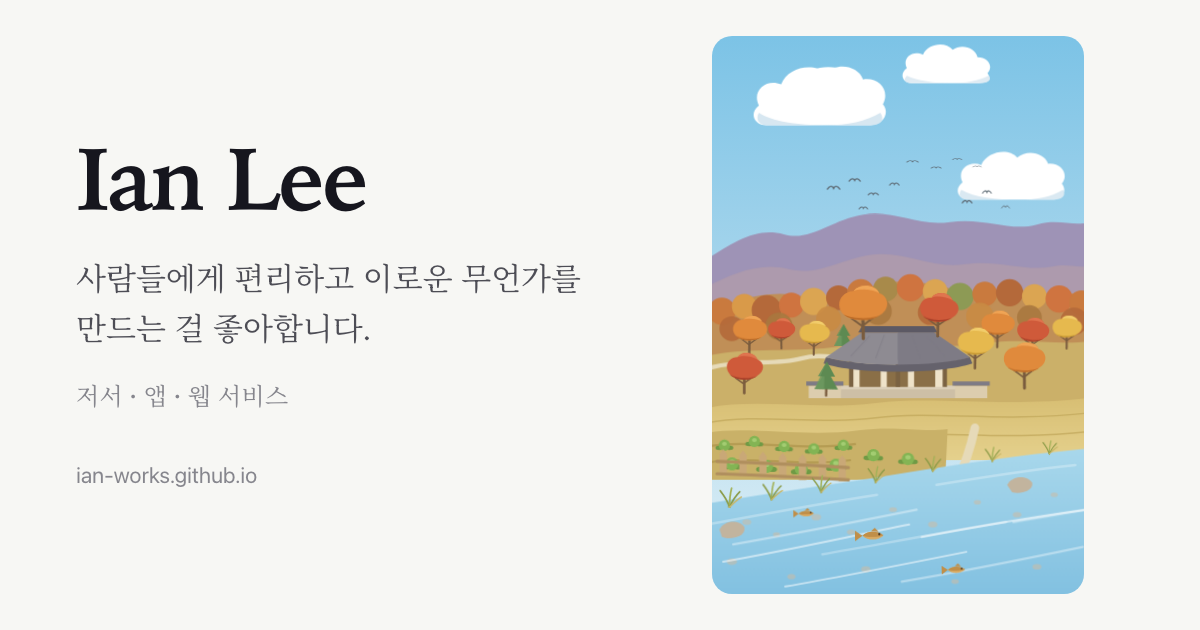
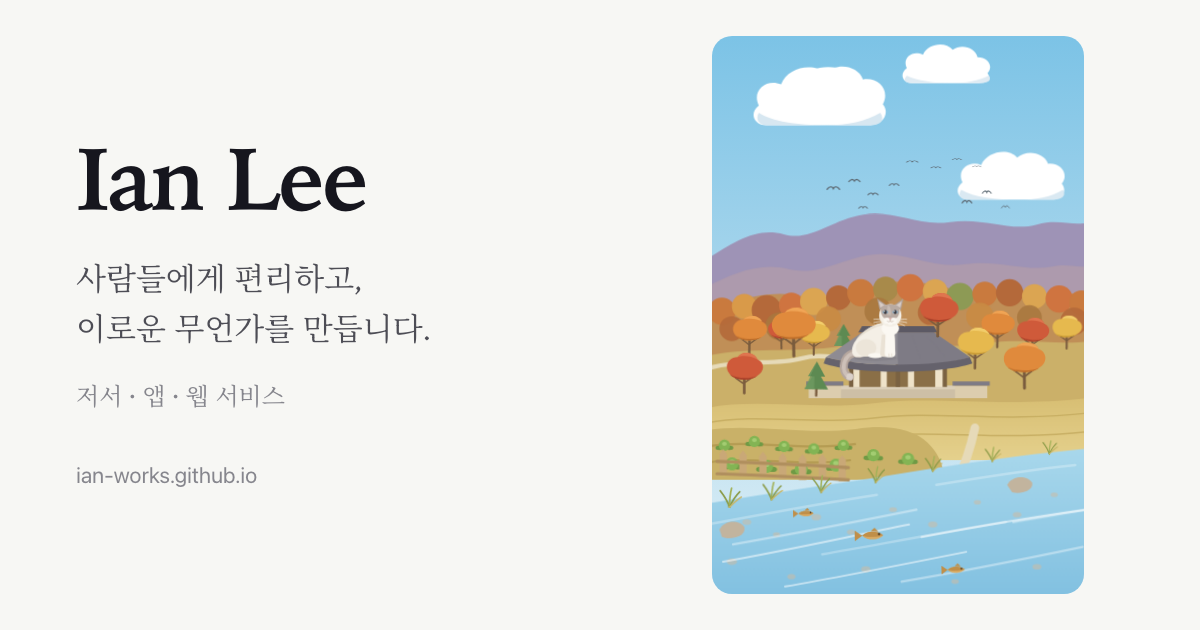
지붕 위에 고양이를 앉히고 소개 문구와 텃밭 선을 손본다
- 한옥 지붕에 흰 랙돌 한 마리를 앉힌다. 몸은 옆으로, 고개만 돌려 정면을
  본다. 꼬리는 왼쪽 처마 너머로 늘어뜨리고 2.8초 주기로 살랑인다
- 고양이 머리 자리를 덮던 큰 단풍나무를 언덕 왼쪽으로 옮기고, 꼬리가
  흔들릴 때 가리던 마당 소나무도 왼쪽으로 비켜 세운다
- 텃밭 오른쪽 끝이 수직으로 떨어져 잘린 절벽처럼 보이던 것을 윗선에서
  이어지는 한 번의 곡선으로 개울까지 흘려보낸다
- 소개 문구를 고친다. 현재 일을 "AI와 데이터 관련 개발자"로 적고,
  두 번째 줄은 "사람들에게 편리하고 이로운 무언가를 만듭니다."로 줄인다
- OG 카드를 새 풍경과 새 문구로 다시 뽑는다

Claude-Session: https://claude.ai/code/session_0117SQnk8Mw67oxq9Pd7zv8z

diff --git a/index.html b/index.html
@@ -36,10 +36,11 @@
     <h1>Ian Lee</h1>
 
     <p class="lede">
-      보안 회사에서 보안 솔루션을 개발했었고, 현재는 국내 전자회사에서 개발자로 근무 중입니다.
+      보안 회사에서 보안 솔루션을 개발했고, 현재는 국내 전자회사에서
+      AI와 데이터 관련 개발자로 근무 중입니다.
     </p>
     <p class="lede">
-      사람들에게 편리하고 이로운 무언가를 만드는 걸 좋아합니다.
+      사람들에게 편리하고 이로운 무언가를 만듭니다.
     </p>
   </header>
 
@@ -47,7 +48,7 @@
   <aside class="art">
     <figure class="scene-wrap">
       <svg class="scene" viewBox="0 0 300 450" role="img"
-           aria-label="가을 산골 풍경. 겹겹이 물러나는 단풍 든 산, 그 아래 한옥 한 채, 앞으로 배추가 자란 텃밭과 울타리, 맨 앞에는 조약돌이 비치는 개울이 흐릅니다. 바람에 나무와 풀이 흔들리고, 개울에는 물고기가, 하늘에는 뭉게구름과 새떼가 지나갑니다.">
+           aria-label="가을 산골 풍경. 겹겹이 물러나는 단풍 든 산, 그 아래 한옥 한 채와 그 지붕에 옆으로 앉아 고개만 돌려 앞을 보는 흰 고양이, 앞으로 배추가 자란 텃밭과 울타리, 맨 앞에는 조약돌이 비치는 개울이 흐릅니다. 바람에 나무와 풀이 흔들리고, 고양이는 처마 너머로 늘어뜨린 꼬리를 살랑이고, 개울에는 물고기가, 하늘에는 뭉게구름과 새떼가 지나갑니다.">
         <defs>
           <linearGradient id="sky" x1="0" y1="0" x2="0" y2="1">
             <stop offset="0" stop-color="#7cc3e6"/>
@@ -278,13 +279,99 @@
           <path d="M76,282 L106,282 L106,278.5 L76,278.5 Z" fill="#7e7b85"/>
           <path d="M196,292 L222,292 L222,282 L196,282 Z" fill="#dccdae"/>
           <path d="M194,282 L224,282 L224,278.5 L194,278.5 Z" fill="#7e7b85"/>
+
+          <!-- 지붕 위의 고양이. 흰 랙돌 — 얼굴 가면·귀·꼬리만 연회색 포인트다.
+               기준점은 앞발이 기와에 닿는 자리. 몸은 옆으로 앉고 얼굴만 정면을 본다.
+               얼굴은 `translate(13,-45)` 한 겹 안에 있어 따로 옮기거나 키울 수 있다 -->
+          <g class="cat" transform="translate(134,259) scale(0.75)">
+            <!-- 기와에 드리운 그림자 -->
+            <ellipse cx="-3" cy="0.8" rx="23" ry="3.2" fill="#5e5b66" opacity="0.16"/>
+
+            <!-- 꼬리. 바깥 그룹이 자리를 잡고 안쪽 그룹이 살랑거린다 -->
+            <g transform="translate(-20,-4)"><g class="tail">
+              <path d="M0,0 C-8,-0.6 -14,4 -15,13 C-15.6,20 -12,25.4 -7,26.4"
+                    fill="none" stroke="#b5a69e" stroke-width="8.6" stroke-linecap="round"/>
+              <path d="M0,0 C-8,-0.6 -14,4 -15,13 C-15.6,20 -12,25.4 -7,26.4"
+                    fill="none" stroke="#cdc0b8" stroke-width="4.2" stroke-linecap="round"/>
+              <circle cx="-7" cy="26.4" r="3.8" fill="#dad0c9"/>
+            </g></g>
+
+            <!-- 옆으로 앉은 몸통. 엉덩이가 낮고 넓게 퍼지고 어깨에서 목으로 올라간다 -->
+            <path d="M-24,0 C-30,-2 -29,-12 -24,-18 C-19,-26 -10,-32 -1,-35.5
+                     C7,-38.5 14,-36 16.5,-30 C18.5,-25 18,-14 18.5,-5
+                     C19,-1.5 17,0 13.5,0 C6,0 0,-2 -6,-1.4 C-12,-0.8 -18,0 -24,0 Z"
+                  fill="#f4efe6"/>
+            <path d="M-24,-18 C-19,-26 -10,-32 -1,-35.5 C7,-38.5 14,-36 16.5,-30
+                     C13,-34 6,-35.4 -1,-33 C-10,-29.6 -18,-24 -24,-18 Z" fill="#e6ded0"/>
+
+            <!-- 뒷다리와 그 앞으로 나온 뒷발 -->
+            <ellipse cx="-13" cy="-10" rx="11" ry="9.4" fill="#ece5d9"/>
+            <ellipse cx="-3" cy="-1.8" rx="8" ry="2.9" fill="#fbf8f2"/>
+
+            <!-- 앞다리 두 짝. 먼 쪽을 살짝 어둡게 해서 갈라 보이게 한다 -->
+            <path d="M4,-24 C8,-25.2 10.6,-22.2 10.6,-17 L10.8,-4
+                     C10.8,-1.6 9.6,-0.6 7.4,-0.6 L5,-0.6 C3,-0.6 2,-1.8 2.2,-4 Z" fill="#eae2d5"/>
+            <path d="M8,-28 C13.5,-29.2 17.6,-25.6 17.6,-19 L18,-4
+                     C18,-1.4 16.6,-0.2 14,-0.2 L10.4,-0.2 C8,-0.2 6.8,-1.6 7,-4 Z" fill="#fbf8f2"/>
+            <g fill="none" stroke="#e3dbcd" stroke-width="0.8" stroke-linecap="round">
+              <path d="M11.6,-3.6 C11.8,-2.2 11.8,-1.2 11.6,-0.6"/>
+              <path d="M14.6,-3.6 C14.8,-2.2 14.8,-1.2 14.6,-0.6"/>
+            </g>
+
+            <!-- 가슴털 -->
+            <ellipse cx="13" cy="-31" rx="9.5" ry="7.6" fill="#fbf8f2"/>
+
+            <!-- 얼굴. 몸은 옆을 보고 고개만 돌려 정면을 본다. 머리 한가운데가 원점 -->
+            <g transform="translate(13,-45)">
+              <!-- 귀는 머리보다 먼저 그려 뒤로 보낸다 -->
+              <path d="M-11.5,-6 L-14,-18 L-3.5,-10.5 Z" fill="#b0a199"/>
+              <path d="M11.5,-6 L14,-18 L3.5,-10.5 Z" fill="#b0a199"/>
+              <path d="M-10.8,-8.2 L-12.4,-15.2 L-5.6,-10.6 Z" fill="#d8ccc5"/>
+              <path d="M10.8,-8.2 L12.4,-15.2 L5.6,-10.6 Z" fill="#d8ccc5"/>
+
+              <!-- 머리와 연회색 가면 -->
+              <circle r="12" fill="#f4efe6"/>
+              <path d="M-10,-6.5 C-9.6,-11 -5,-11.8 0,-11.8 C5,-11.8 9.6,-11 10,-6.5
+                       C10.4,-1.5 8,2.5 4.4,4.4 C2.6,2.4 -2.6,2.4 -4.4,4.4
+                       C-8,2.5 -10.4,-1.5 -10,-6.5 Z" fill="#b8aaa2"/>
+              <path d="M-2.4,-11.4 C0.6,-9 1.4,-4 0.6,0.4 C-0.6,-0.4 -1.8,-0.4 -2.8,0.2
+                       C-3.6,-4 -3.4,-8.6 -2.4,-11.4 Z" fill="#c8bbb3"/>
+
+              <!-- 랙돌의 파란 눈 -->
+              <path d="M-8.6,-3.6 C-7.6,-6 -3,-6 -2,-3.6 C-3,-1.2 -7.6,-1.2 -8.6,-3.6 Z" fill="#8fb0c8"/>
+              <path d="M8.6,-3.6 C7.6,-6 3,-6 2,-3.6 C3,-1.2 7.6,-1.2 8.6,-3.6 Z" fill="#8fb0c8"/>
+              <ellipse cx="-5.3" cy="-3.6" rx="1.6" ry="2.2" fill="#3b3a3f"/>
+              <ellipse cx="5.3" cy="-3.6" rx="1.6" ry="2.2" fill="#3b3a3f"/>
+              <circle cx="-6.2" cy="-4.5" r="0.7" fill="#ffffff" opacity="0.85"/>
+              <circle cx="4.4" cy="-4.5" r="0.7" fill="#ffffff" opacity="0.85"/>
+
+              <!-- 주둥이, 코, 입 -->
+              <ellipse cx="0" cy="8.4" rx="3" ry="2" fill="#fbf8f2"/>
+              <ellipse cx="-3.4" cy="5.6" rx="4.4" ry="3.3" fill="#fbf8f2"/>
+              <ellipse cx="3.4" cy="5.6" rx="4.4" ry="3.3" fill="#fbf8f2"/>
+              <path d="M-2,2.6 L2,2.6 L0,4.8 Z" fill="#d3a29d"/>
+              <g fill="none" stroke="#c5b5a8" stroke-width="0.8" stroke-linecap="round">
+                <path d="M0,4.8 L0,6"/>
+                <path d="M0,6 C-0.9,7.3 -2.6,7.2 -3.2,6.2"/>
+                <path d="M0,6 C0.9,7.3 2.6,7.2 3.2,6.2"/>
+              </g>
+              <g fill="none" stroke="#f6f1e8" stroke-width="0.8" stroke-linecap="round" opacity="0.95">
+                <path d="M-7,5 C-11.5,4.2 -15,3.8 -17.5,4.2"/>
+                <path d="M-7,6.4 C-11.5,6.6 -15.2,7 -17.6,7.8"/>
+                <path d="M-6.6,7.6 C-10.4,8.8 -13.4,10 -15.4,11"/>
+                <path d="M7,5 C11.5,4.2 15,3.8 17.5,4.2"/>
+                <path d="M7,6.4 C11.5,6.6 15.2,7 17.6,7.8"/>
+                <path d="M6.6,7.6 C10.4,8.8 13.4,10 15.4,11"/>
+              </g>
+            </g>
+          </g>
         </g>
 
         <!-- 집 둘레의 큰 단풍나무 -->
-        <g class="sway" style="--dur:6.8s; --d:-0.4s"><use href="#tree-o" transform="translate(122,244) scale(1.04)"/></g>
+        <g class="sway" style="--dur:6.8s; --d:-0.4s"><use href="#tree-o" transform="translate(66,258) scale(0.95)"/></g>
         <g class="sway" style="--dur:7.9s; --d:-2.5s"><use href="#tree-r" transform="translate(182,242) scale(0.94)"/></g>
         <g class="sway" style="--dur:7.1s; --d:-3.9s"><use href="#tree-y" transform="translate(212,268) scale(0.84)"/></g>
-        <g class="sway" style="--dur:6.4s; --d:-1.8s"><use href="#pine2" transform="translate(92,290) scale(0.86)"/></g>
+        <g class="sway" style="--dur:6.4s; --d:-1.8s"><use href="#pine2" transform="translate(84,290) scale(0.86)"/></g>
         <g class="sway" style="--dur:8.2s; --d:-0.9s"><use href="#tree-o" transform="translate(252,284) scale(0.9)"/></g>
         <g class="sway" style="--dur:7.0s; --d:-4.6s"><use href="#tree-r" transform="translate(26,288) scale(0.88)"/></g>
 
@@ -297,7 +384,10 @@
         </g>
 
         <!-- ================= 텃밭 ================= -->
-        <path d="M-4,320 C30,314 74,324 118,318 C150,314 168,320 190,317 L188,358 L-4,358 Z"
+        <!-- 오른쪽 끝을 직각으로 떨구면 밭이 잘린 절벽처럼 보인다.
+             윗선에서 이어지는 한 번의 곡선으로 개울까지 흘려보낸다 -->
+        <path d="M-4,318 C30,312 74,322 116,317 C142,313 162,317 174,328
+                 C182,336 186,344 188,358 L-4,358 Z"
               fill="#c9b168"/>
         <g fill="none" stroke="#ab9249" stroke-width="1.8" opacity="0.65">
           <path d="M-4,331 C30,325 74,335 116,329"/>

diff --git a/styles.css b/styles.css
@@ -234,6 +234,19 @@ a:hover { text-decoration-color: currentColor; }
   50%      { transform: scaleY(0.42); }
 }
 
+/* 고양이 꼬리 — 처마 너머에서 살랑살랑.
+   꼬리 밑동이 bbox의 오른쪽 위 꼭짓점이라 그 점을 축으로 돈다 */
+.scene .tail {
+  transform-box: fill-box;
+  transform-origin: right top;
+  animation: wag 2.8s ease-in-out infinite;
+}
+
+@keyframes wag {
+  0%, 100% { transform: rotate(-8deg); }
+  50%      { transform: rotate(8deg); }
+}
+
 /* 개울 — 잔물결 */
 .scene .ripple {
   animation: ripple 6s linear infinite;

diff --git a/_notes/scene.md b/_notes/scene.md
@@ -27,6 +27,7 @@
 | 198 – 270 | 단풍 든 앞산 + 그 위를 덮은 단풍 숲 덩어리 |
 | 246 – 312 | 한옥이 앉은 언덕, 오솔길, 나무들 |
 | 234 – 292 | 한옥 |
+| 212 – 277 | 지붕 위에 앉은 고양이 (꼬리는 처마 아래로) |
 | 292 – 342 | 다랑논 |
 | 317 – 358 | 텃밭, 배추, 나무 울타리 |
 | 332 – 450 | 개울 (`clipWater` 로 물결·물고기·조약돌을 가둠) |
@@ -64,6 +65,37 @@
 - 담장은 집에서 떨어뜨려 놓으면 **허공에 뜬 흰 막대**로 보입니다. 축대에
   붙여 두세요
 
+## 지붕 위의 고양이
+
+`<g class="cat">` 는 `.hanok` 그룹 **안** 맨 끝에 있습니다. 집을 옮기면
+고양이도 따라갑니다. 기준점(`translate(134,259)`)은 **앞발이 기와에 닿는
+자리**입니다. 몸은 옆으로 앉고 **고개만 돌려 정면**을 봅니다.
+
+흰 랙돌입니다. 몸은 흰색(`#f4efe6`)이고 **얼굴 가면·귀·꼬리만 연회색
+포인트**(`#b0a199` – `#d8ccc5`)입니다. 눈은 파랑(`#8fb0c8`), 코는
+연분홍(`#d3a29d`).
+
+얼굴은 `translate(13,-45)` 한 겹 안에 머리 중심을 원점으로 그려 두었습니다.
+얼굴만 옮기거나 키우려면 그 그룹의 `transform` 한 줄만 고치면 됩니다.
+
+**걸렸던 것들:**
+
+- 처음엔 누운 자세였습니다. 앉히면 키가 지붕 면(`y 239 – 262`)의 두 배가
+  되어 **몸통이 지붕 위로 솟습니다.** 이건 정상입니다 — 앞발이 기와에 닿는
+  선만 지붕 안에 있으면 "지붕 위의 고양이"로 읽힙니다
+- 대신 **앉은 고양이 머리 자리에 큰 단풍나무가 있었습니다.** 나무는 한옥
+  뒤에 그려지지만 고양이보다 나중에 그려져 머리를 덮었습니다. 나무를
+  `translate(122,244)` → `translate(66,258)` 로 언덕 왼쪽 나무들 쪽에
+  옮겼습니다
+- 몸이 너무 왼쪽에 있으면 **지붕 왼쪽 비탈 밖으로 엉덩이가 나갑니다.**
+  지붕 앞면이 온전한 높이가 되는 `x ≥ 121` 안쪽에 몸통을 두세요
+- 얼굴은 정면, 몸은 옆. 정면 얼굴을 옆 몸에 얹으면 목이 어색해지니
+  가슴털 타원(`13,-31`)으로 이음매를 덮습니다
+- 꼬리를 지붕 위로 말아 올리면 **왼쪽 처마 너머 허공**으로 나갑니다.
+  처마 밖으로 늘어뜨리면 자리도 맞고 흔들기도 좋습니다
+- 꼬리는 `translate` 한 그룹 **안쪽**에 `.tail` 을 한 겹 더 둡니다. 같은
+  요소에 CSS `transform` 을 주면 위치를 잡은 `transform` 속성을 덮어씁니다
+
 ## 단풍나무
 
 `#tree-o`(주황) `#tree-r`(빨강) `#tree-y`(노랑) `#pine2`(소나무). 밑동이
@@ -82,6 +114,9 @@
 배추(`#cabbage`)를 줄지어 심고 앞에 나무 울타리를 둡니다. 모종에 줄기를
 길게 그리면 작은 나무처럼 보이니, 잎이 낮게 퍼진 모양으로.
 
+밭의 **오른쪽 끝을 수직으로 떨구면 잘린 절벽**처럼 보입니다. 윗선에서
+이어지는 한 번의 곡선으로 개울까지 흘려보내세요.
+
 ## 개울
 
 물은 비스듬한 한 장입니다. 그 안에 조약돌 → 물결 → 물고기 순으로 얹고
@@ -97,6 +132,7 @@
 | `.bird` | 가로지름 + `.wing` 이 `scaleY` 로 날갯짓 | 36 – 52s / 0.74 – 1.15s |
 | `.ripple` | 가로 이동 + 페이드 | 6s |
 | `.fish` | 가로지름 + `.bob` 이 위아래로 흔듦 | 28 – 37s |
+| `.tail` | 꼬리 밑동을 축으로 ±8° 회전 | 2.8s |
 
 각 요소는 `--dur`, `--d` (지연) 인라인 변수로 어긋나게 둡니다. **음수 지연**을
 써서 처음부터 제각기 다른 위상으로 시작하게 했습니다 — 안 그러면 전부

diff --git a/_notes/workflow.md b/_notes/workflow.md
@@ -130,7 +130,7 @@ html,body{{margin:0;background:#f7f7f4}}
 .scene .fish-3{{animation-delay:-8s!important}}
 </style></head><body><div class="og"><div class="og-text">
 <p class="og-name">Ian Lee</p>
-<p class="og-line">사람들에게 편리하고 이로운 무언가를 만드는 걸 좋아합니다.</p>
+<p class="og-line">사람들에게 편리하고,<br>이로운 무언가를 만듭니다.</p>
 <p class="og-kinds">저서 · 앱 · 웹 서비스</p>
 <p class="og-url">ian-works.github.io</p>
 </div><figure class="og-art">{svg}</figure></div></body></html>""")
